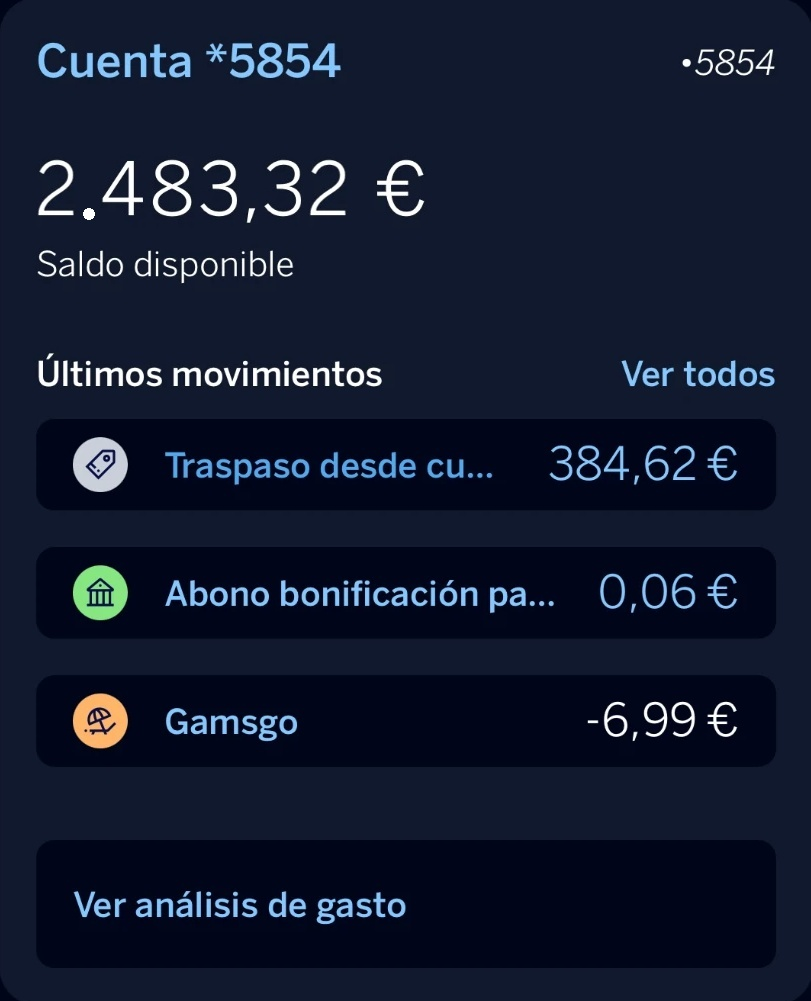
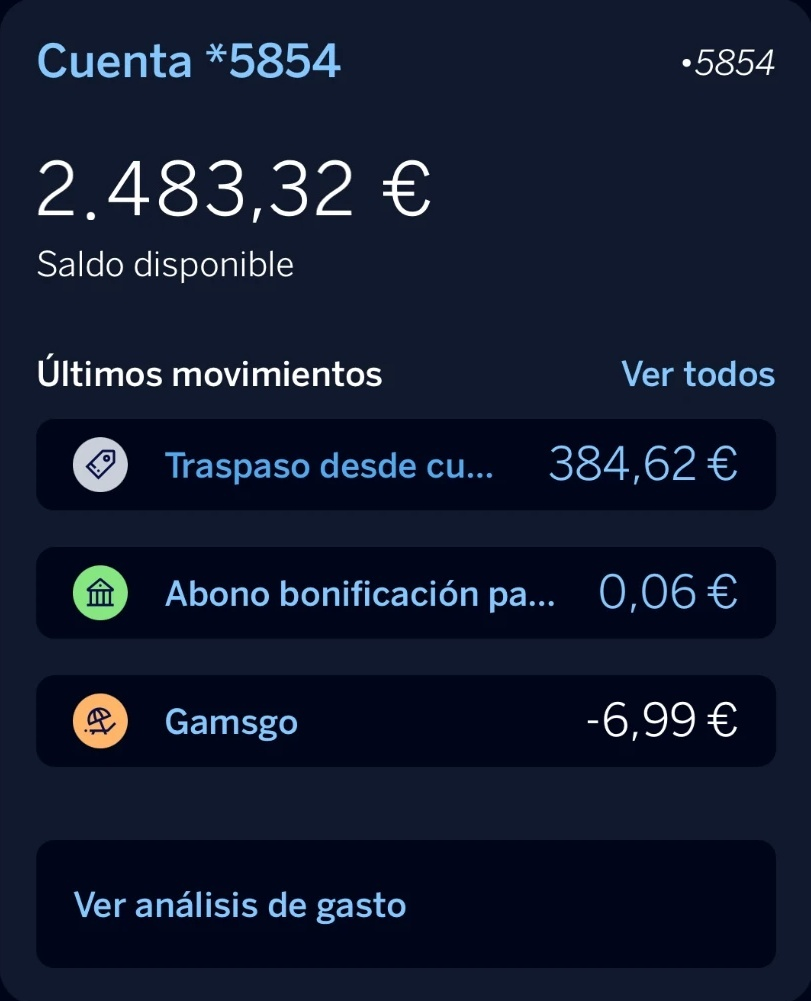
Saldos: 9 real y punto de miles real (de la captura de Ingresos), bien alineados (v27)

Changed region(s): [[0.1233, 0.1548, 0.4316, 0.2168], [0.4624, 0.1548, 0.524, 0.2168]]

diff --git a/index.html b/index.html
@@ -12,13 +12,13 @@
   <meta name="apple-mobile-web-app-status-bar-style" content="default" />
   <meta name="apple-mobile-web-app-title" content="BBVA" />
   <meta name="theme-color" content="#144866" />
-  <link rel="manifest" href="manifest.json?v=26" />
+  <link rel="manifest" href="manifest.json?v=27" />
 
   <link rel="preconnect" href="https://fonts.googleapis.com" />
   <link rel="preconnect" href="https://fonts.gstatic.com" crossorigin />
   <link href="https://fonts.googleapis.com/css2?family=Lora:wght@600;700&family=Libre+Franklin:wght@300;400&family=Inter:wght@300;400;500;600&display=swap" rel="stylesheet" />
 
-  <link rel="stylesheet" href="style.css?v=26" />
+  <link rel="stylesheet" href="style.css?v=27" />
 </head>
 <body>
   <!-- Tira lisa arriba: iOS 26 solo deja de desenfocar si el borde superior de la página es de color liso -->
@@ -46,7 +46,7 @@
   <div class="sheet-overlay" id="sheet" aria-hidden="true">
     <div class="sheet-dim" id="sheetDim"></div>
     <section class="sheet" role="dialog" aria-modal="true" aria-label="Iniciar sesión">
-      <img class="sheet-img" src="sheet-bg.jpg?v=26" alt="" draggable="false" />
+      <img class="sheet-img" src="sheet-bg.jpg?v=27" alt="" draggable="false" />
 
       <!-- Campo vivo (encima del de la foto): etiqueta flotante + puntos -->
       <div class="field2" id="field2">
@@ -80,8 +80,8 @@
   <!-- Pantalla "Principales productos": tarjetas de cuenta deslizables -->
   <div class="ver" id="ver" aria-hidden="true">
     <div class="ver-track" id="verTrack">
-      <section class="ver-card" style="background-image:url('card1.jpg?v=26')"></section>
-      <section class="ver-card" style="background-image:url('card2.jpg?v=26')"></section>
+      <section class="ver-card" style="background-image:url('card1.jpg?v=27')"></section>
+      <section class="ver-card" style="background-image:url('card2.jpg?v=27')"></section>
     </div>
     <div class="ver-pager" id="verPager">1 de 5</div>
   </div>

diff --git a/style.css b/style.css
@@ -16,14 +16,14 @@ html, body {
 /* La foto original va en el fondo raíz. El tamaño y el desplazamiento exactos
    en píxeles los pone el script según la pantalla. */
 html {
-  background: #144866 url("bg.jpg?v=26") 0 0 / 100vw 100vh no-repeat;
+  background: #144866 url("bg.jpg?v=27") 0 0 / 100vw 100vh no-repeat;
 }
 
 /* Modo app nativa (?app=1): foto limpia a pantalla completa y nítida
    (dentro de la app de iOS no hay desenfoque, así que no hacen falta parches) */
 html.app {
   background-color: #022d5a;
-  background-image: url("bg-app.jpg?v=26");
+  background-image: url("bg-app.jpg?v=27");
 }
 html.app .edge {
   display: none;
@@ -337,7 +337,7 @@ body.sheet-open .stage { filter: blur(9px) brightness(0.45); }
   position: fixed;
   inset: 0;
   z-index: 20;
-  background: #0a1a2f url("bg-home.jpg?v=26") center top / 100% 100% no-repeat;
+  background: #0a1a2f url("bg-home.jpg?v=27") center top / 100% 100% no-repeat;
   transform: translateX(100%);
   transition: transform 0.3s cubic-bezier(0.25, 0.8, 0.3, 1);
   visibility: hidden;
@@ -367,7 +367,7 @@ body.sheet-open .stage { filter: blur(9px) brightness(0.45); }
   z-index: 30;
   --u: 0.05cqh;
   container-type: size;
-  background: #00051a url("bg-chrome.jpg?v=26") center top / 100% 100% no-repeat;
+  background: #00051a url("bg-chrome.jpg?v=27") center top / 100% 100% no-repeat;
   transform: translateX(100%);
   transition: transform 0.3s cubic-bezier(0.25, 0.8, 0.3, 1);
   visibility: hidden;
